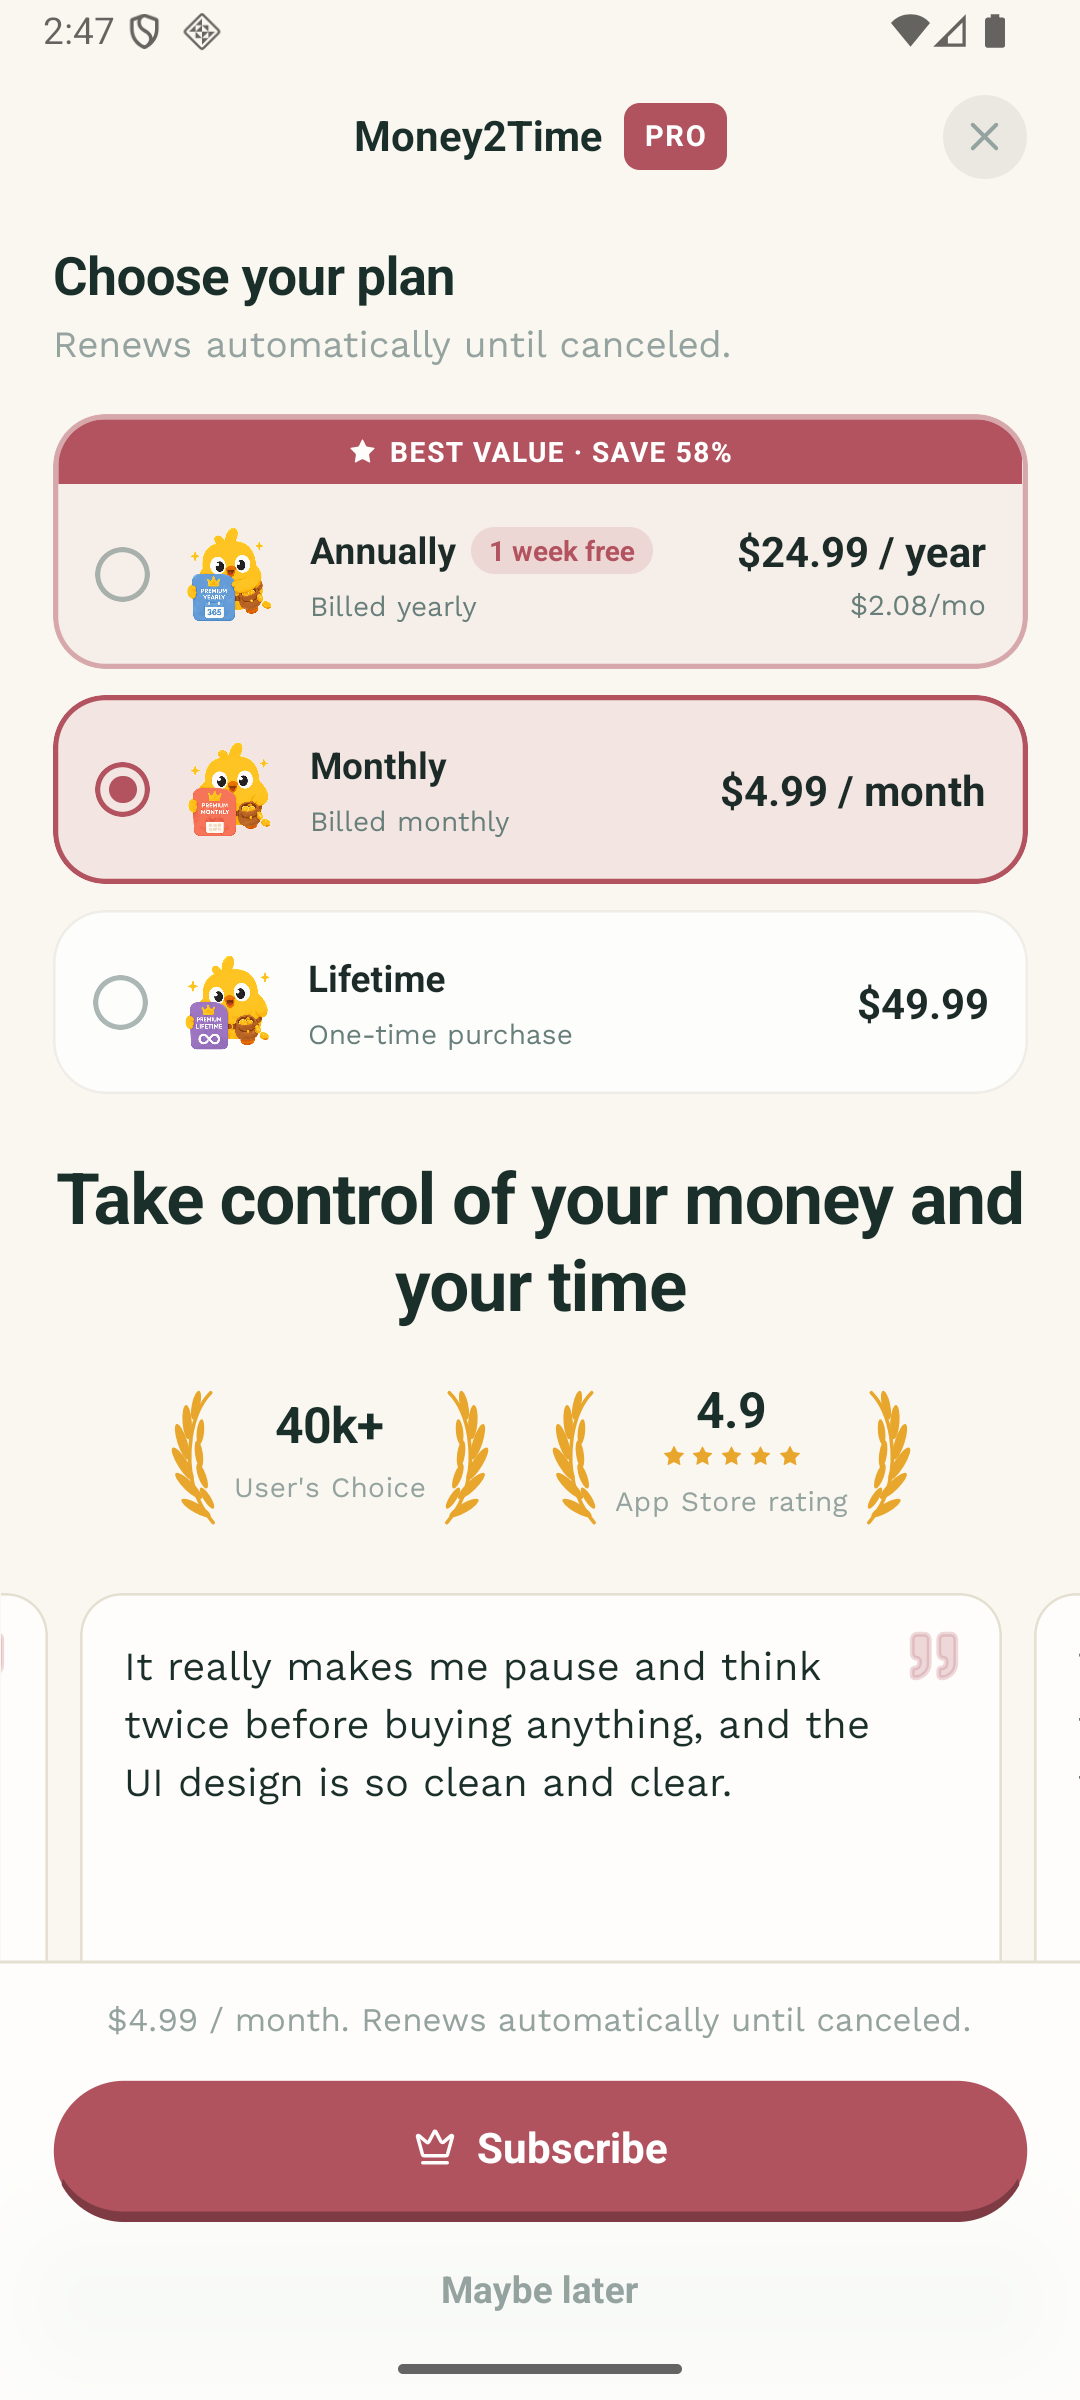
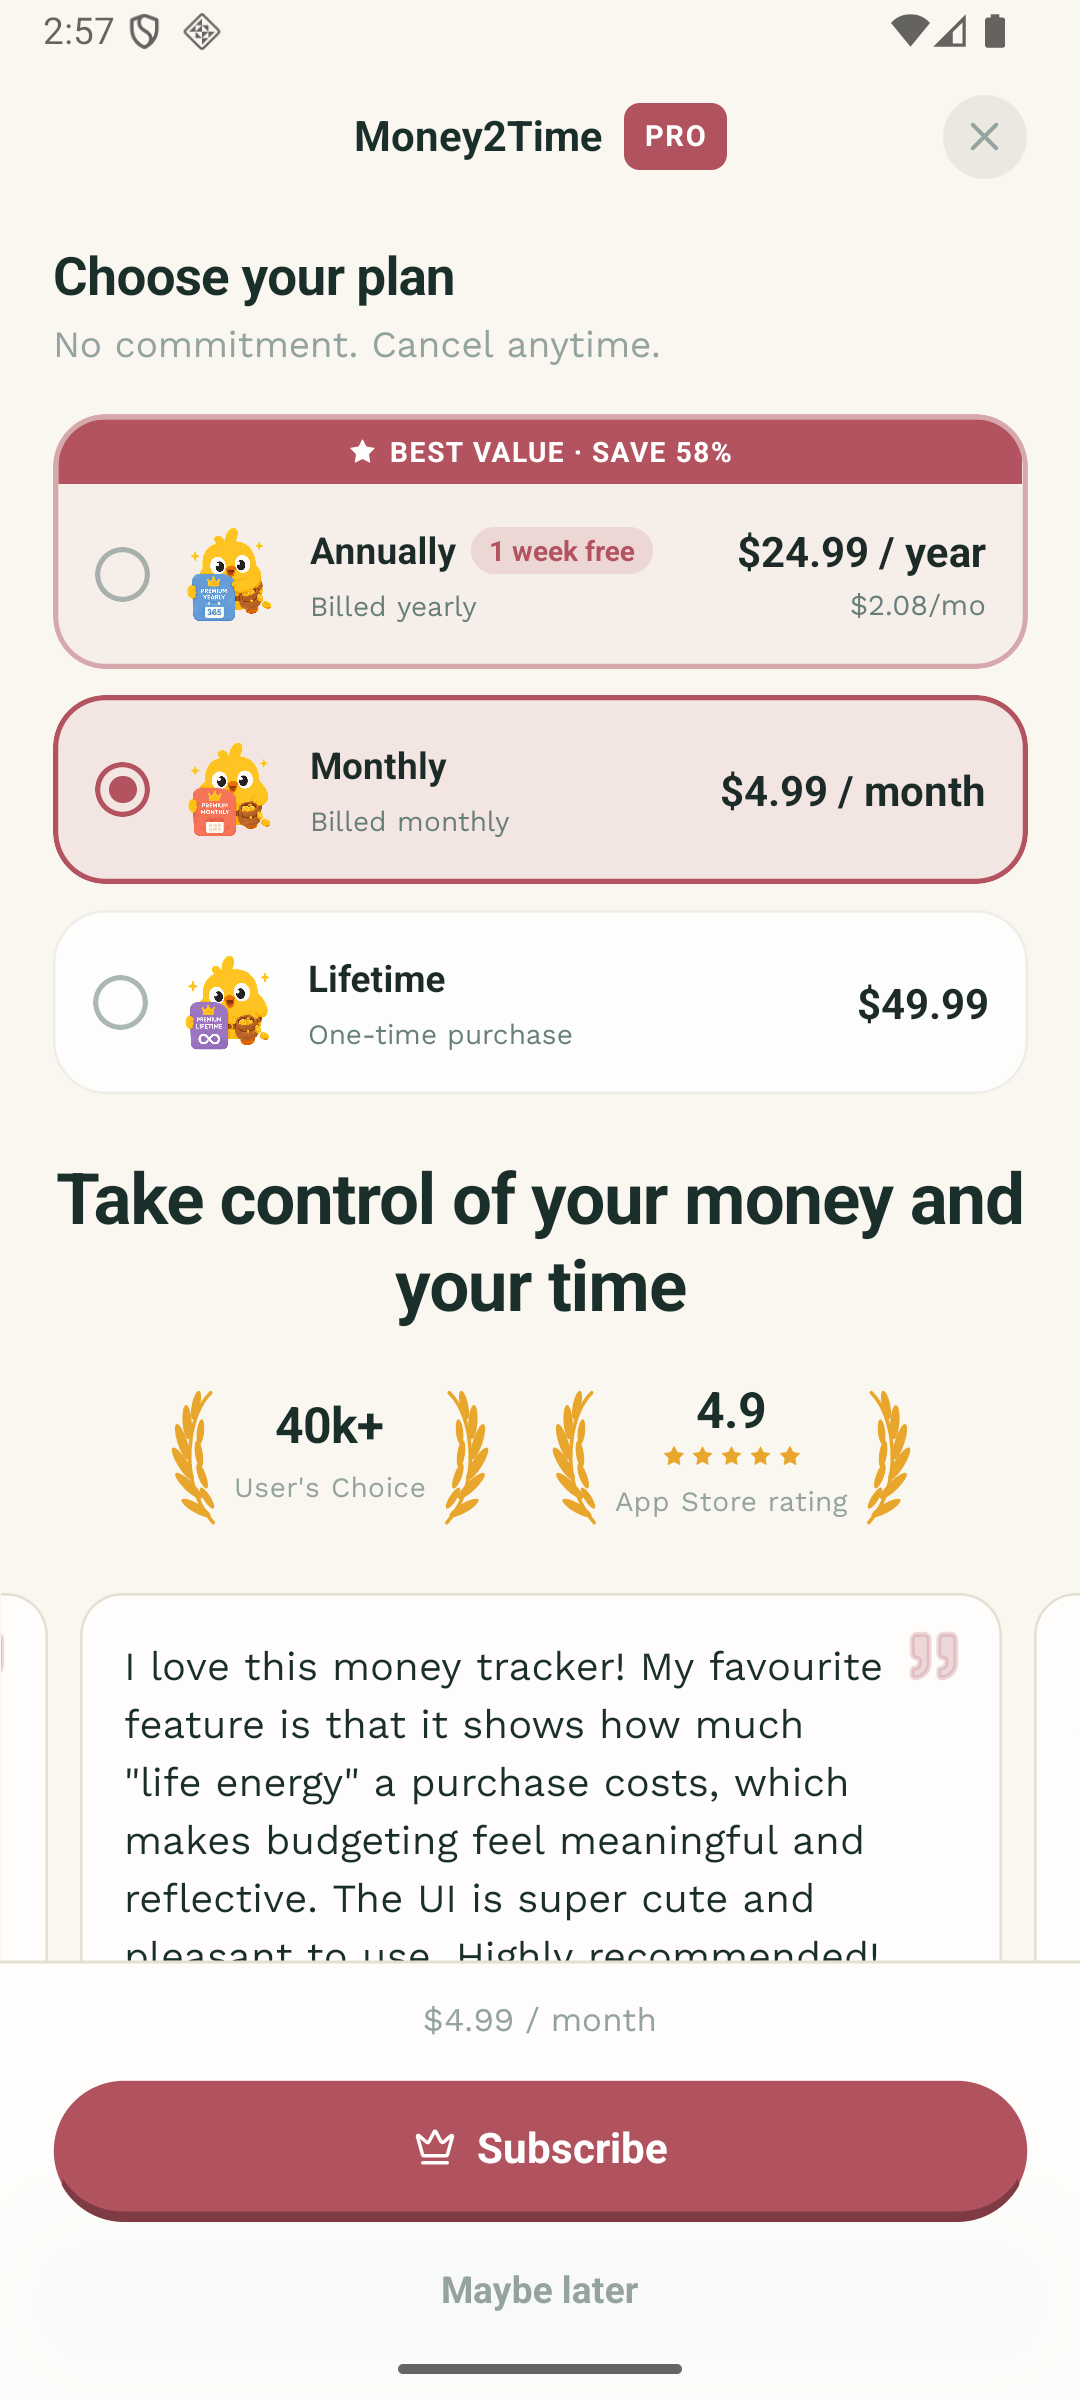
Use single cancellation reassurance on Pro paywall

diff --git a/features/settings/lib/paywallPresentation.ts b/features/settings/lib/paywallPresentation.ts
@@ -50,15 +50,18 @@ export function buildPaywallPlanPresentation(
   translate: Translate,
   locale = 'en',
 ): PaywallPlanPresentation {
-  if (!plan.freeTrial || !plan.priceLabel?.trim()) {
+  if (plan.kind === 'lifetime' || !plan.freeTrial || !plan.priceLabel?.trim()) {
     return {
       trialDurationLabel: null,
       trialBadgeLabel: null,
       heroTitle: translate('pro.hero_title'),
       ctaLabel: translate(plan.kind === 'lifetime' ? 'pro.buy_lifetime' : 'pro.subscribe'),
-      detailLabel: plan.priceLabel?.trim()
-        ? `${plan.priceLabel}. ${translate(plan.kind === 'lifetime' ? 'pro.lifetime_desc' : 'pro.no_commitment')}`
-        : translate(plan.kind === 'lifetime' ? 'pro.lifetime_desc' : 'pro.no_commitment'),
+      detailLabel:
+        plan.kind === 'lifetime'
+          ? plan.priceLabel?.trim()
+            ? `${plan.priceLabel}. ${translate('pro.lifetime_desc')}`
+            : translate('pro.lifetime_desc')
+          : (plan.priceLabel?.trim() ?? ''),
     };
   }
 
@@ -68,10 +71,7 @@ export function buildPaywallPlanPresentation(
     trialBadgeLabel: translate('pro.trial_free', { duration }),
     heroTitle: translate('pro.hero_title'),
     ctaLabel: translate('pro.trial_cta'),
-    detailLabel: translate('pro.trial_terms', {
-      duration,
-      price: plan.priceLabel,
-    }),
+    detailLabel: translate('pro.trial_terms', { duration, price: plan.priceLabel }),
   };
 }
 

diff --git a/lib/i18n/locales/hi.ts b/lib/i18n/locales/hi.ts
@@ -2155,12 +2155,11 @@ const hi = {
     subscribe: 'सदस्यता लें',
     buy_lifetime: 'लाइफ़टाइम खरीदें',
     maybe_later: 'शायद बाद में',
-    trial_terms:
-      '{{duration}} के लिए मुफ़्त, फिर {{price}}। रद्द करने तक अपने-आप नवीनीकृत होता है।',
+    trial_terms: '{{duration}} के लिए मुफ़्त, फिर {{price}}।',
     plans_heading: 'अपना प्लान चुनें',
     save_percent: '{{percent}}% बचाएं',
     per_month_short: '/माह',
-    no_commitment: 'रद्द करने तक अपने-आप नवीनीकृत होता है।',
+    no_commitment: 'कोई प्रतिबद्धता नहीं। कभी भी रद्द करें।',
     compare_limited: 'सीमित',
     terms_prefix: 'खरीदारी करके, आप हमारी',
     manage: 'प्रबंधित करें',

diff --git a/__tests__/features/settings/paywallPresentation.test.ts b/__tests__/features/settings/paywallPresentation.test.ts
@@ -108,13 +108,29 @@ describe('paywall presentation', () => {
       trialBadgeLabel: null,
       heroTitle: 'pro.hero_title',
       ctaLabel: 'pro.subscribe',
-      detailLabel: 'pro.no_commitment',
+      detailLabel: '',
+    });
+  });
+
+  it('never treats a lifetime package as a subscription trial', () => {
+    expect(
+      buildPaywallPlanPresentation(
+        plan({
+          kind: 'lifetime',
+          freeTrial: { durationIso8601: 'P1W', durationCount: 1, durationUnit: 'week' },
+        }),
+        translate,
+      ),
+    ).toMatchObject({
+      trialBadgeLabel: null,
+      ctaLabel: 'pro.buy_lifetime',
+      detailLabel: '$4.99. pro.lifetime_desc',
     });
   });
 
   it.each([
-    ['monthly', 'pro.subscribe', '$4.99. pro.no_commitment'],
-    ['annual', 'pro.subscribe', '$4.99. pro.no_commitment'],
+    ['monthly', 'pro.subscribe', '$4.99'],
+    ['annual', 'pro.subscribe', '$4.99'],
     ['lifetime', 'pro.buy_lifetime', '$4.99. pro.lifetime_desc'],
   ] as const)(
     'uses ordinary %s purchase copy when no trial is available',

diff --git a/lib/i18n/locales/ru.ts b/lib/i18n/locales/ru.ts
@@ -2171,12 +2171,11 @@ const ru = {
     subscribe: 'Оформить подписку',
     buy_lifetime: 'Купить пожизненный доступ',
     maybe_later: 'Может быть позже',
-    trial_terms:
-      'Бесплатный пробный период: {{duration}}, затем {{price}}. Продлевается автоматически до отмены.',
+    trial_terms: 'Бесплатный пробный период: {{duration}}, затем {{price}}.',
     plans_heading: 'Выберите свой план',
     save_percent: 'Сэкономьте {{percent}}%',
     per_month_short: '/мес.',
-    no_commitment: 'Продлевается автоматически до отмены.',
+    no_commitment: 'Без обязательств. Отмена в любое время.',
     compare_limited: 'Ограниченно',
     terms_prefix: 'Совершая покупку, вы соглашаетесь с нашей',
     manage: 'Управление',

diff --git a/lib/i18n/locales/th.ts b/lib/i18n/locales/th.ts
@@ -2128,11 +2128,11 @@ const th = {
     subscribe: 'สมัครสมาชิก',
     buy_lifetime: 'ซื้อแบบตลอดชีพ',
     maybe_later: 'ไว้ทีหลัง',
-    trial_terms: 'ฟรี {{duration}} จากนั้น {{price}} ต่ออายุอัตโนมัติจนกว่าจะยกเลิก',
+    trial_terms: 'ฟรี {{duration}} จากนั้น {{price}}',
     plans_heading: 'เลือกแพ็กเกจของคุณ',
     save_percent: 'ประหยัด {{percent}}%',
     per_month_short: '/เดือน',
-    no_commitment: 'ต่ออายุอัตโนมัติจนกว่าจะยกเลิก',
+    no_commitment: 'ไม่มีข้อผูกมัด ยกเลิกได้ทุกเมื่อ',
     compare_limited: 'จำกัด',
     terms_prefix: 'การซื้อถือว่าคุณยอมรับ',
     manage: 'จัดการ',

diff --git a/lib/i18n/locales/uk.ts b/lib/i18n/locales/uk.ts
@@ -2165,12 +2165,11 @@ const uk = {
     subscribe: 'Оформити підписку',
     buy_lifetime: 'Купити довічний доступ',
     maybe_later: 'Можливо, пізніше',
-    trial_terms:
-      'Безкоштовний пробний період: {{duration}}, потім {{price}}. Автоматично поновлюється до скасування.',
+    trial_terms: 'Безкоштовний пробний період: {{duration}}, потім {{price}}.',
     plans_heading: 'Оберіть свій план',
     save_percent: 'Заощадьте {{percent}}%',
     per_month_short: '/міс.',
-    no_commitment: 'Автоматично поновлюється до скасування.',
+    no_commitment: 'Без зобов’язань. Скасуйте будь-коли.',
     compare_limited: 'Обмежено',
     terms_prefix: 'Купуючи, ви погоджуєтеся з нашою',
     manage: 'Управляти',

diff --git a/lib/i18n/locales/vi.ts b/lib/i18n/locales/vi.ts
@@ -2149,12 +2149,11 @@ const vi = {
     subscribe: 'Đăng ký',
     buy_lifetime: 'Mua gói trọn đời',
     maybe_later: 'Có thể để sau',
-    trial_terms:
-      'Miễn phí trong {{duration}}, sau đó {{price}}. Tự động gia hạn cho đến khi bạn hủy.',
+    trial_terms: 'Miễn phí trong {{duration}}, sau đó {{price}}.',
     plans_heading: 'Chọn gói của bạn',
     save_percent: 'Tiết kiệm {{percent}}%',
     per_month_short: '/tháng',
-    no_commitment: 'Tự động gia hạn cho đến khi bạn hủy.',
+    no_commitment: 'Không ràng buộc. Hủy bất cứ lúc nào.',
     compare_limited: 'Giới hạn',
     terms_prefix: 'Bằng việc mua, bạn đồng ý với',
     manage: 'Quản lý',

diff --git a/lib/i18n/locales/fil.ts b/lib/i18n/locales/fil.ts
@@ -2194,12 +2194,11 @@ const fil = {
     subscribe: 'Mag-subscribe',
     buy_lifetime: 'Bilhin ang Lifetime',
     maybe_later: 'Siguro mamaya',
-    trial_terms:
-      'Libre sa loob ng {{duration}}, pagkatapos ay {{price}}. Awtomatikong nagre-renew hanggang kanselahin.',
+    trial_terms: 'Libre sa loob ng {{duration}}, pagkatapos ay {{price}}.',
     plans_heading: 'Piliin ang iyong plano',
     save_percent: 'Makatipid ng {{percent}}%',
     per_month_short: '/buwan',
-    no_commitment: 'Awtomatikong nagre-renew hanggang kanselahin.',
+    no_commitment: 'Walang commitment. Kanselahin anumang oras.',
     compare_limited: 'May limitasyon',
     terms_prefix: 'Sa pagbili, sumasang-ayon ka sa aming',
     manage: 'Pamahalaan',

diff --git a/lib/i18n/locales/fr.ts b/lib/i18n/locales/fr.ts
@@ -2190,12 +2190,11 @@ const fr = {
     subscribe: 'S’abonner',
     buy_lifetime: 'Acheter l’accès à vie',
     maybe_later: 'Peut-être plus tard',
-    trial_terms:
-      'Gratuit pendant {{duration}}, puis {{price}}. Renouvellement automatique jusqu’à résiliation.',
+    trial_terms: 'Gratuit pendant {{duration}}, puis {{price}}.',
     plans_heading: 'Choisissez votre formule',
     save_percent: 'Économisez {{percent}}%',
     per_month_short: '/mois',
-    no_commitment: 'Renouvellement automatique jusqu’à résiliation.',
+    no_commitment: 'Sans engagement. Annulez à tout moment.',
     compare_limited: 'Limité',
     terms_prefix: 'En achetant, vous acceptez notre',
     manage: 'Gérer',

diff --git a/lib/i18n/locales/pl.ts b/lib/i18n/locales/pl.ts
@@ -2173,12 +2173,11 @@ const pl = {
     subscribe: 'Subskrybuj',
     buy_lifetime: 'Kup dostęp dożywotni',
     maybe_later: 'Może później',
-    trial_terms:
-      'Bezpłatnie przez {{duration}}, potem {{price}}. Odnawia się automatycznie do momentu anulowania.',
+    trial_terms: 'Bezpłatnie przez {{duration}}, potem {{price}}.',
     plans_heading: 'Wybierz swój plan',
     save_percent: 'Oszczędź {{percent}}%',
     per_month_short: '/mies.',
-    no_commitment: 'Odnawia się automatycznie do momentu anulowania.',
+    no_commitment: 'Bez zobowiązań. Anuluj w każdej chwili.',
     compare_limited: 'Ograniczone',
     terms_prefix: 'Kupując, akceptujesz naszą',
     manage: 'Zarządzaj',

diff --git a/lib/i18n/locales/es.ts b/lib/i18n/locales/es.ts
@@ -2176,12 +2176,11 @@ const es = {
     subscribe: 'Suscribirse',
     buy_lifetime: 'Comprar acceso de por vida',
     maybe_later: 'Quizás más tarde',
-    trial_terms:
-      'Gratis durante {{duration}}; después, {{price}}. Se renueva automáticamente hasta que canceles.',
+    trial_terms: 'Gratis durante {{duration}}; después, {{price}}.',
     plans_heading: 'Elige tu plan',
     save_percent: 'Ahorra {{percent}}%',
     per_month_short: '/mes',
-    no_commitment: 'Se renueva automáticamente hasta que canceles.',
+    no_commitment: 'Sin compromiso. Cancela cuando quieras.',
     compare_limited: 'Limitado',
     terms_prefix: 'Al comprar, aceptas nuestra',
     manage: 'Administrar',

diff --git a/lib/i18n/locales/pt.ts b/lib/i18n/locales/pt.ts
@@ -2173,12 +2173,11 @@ const pt = {
     subscribe: 'Assinar',
     buy_lifetime: 'Comprar acesso vitalício',
     maybe_later: 'Talvez mais tarde',
-    trial_terms:
-      'Grátis por {{duration}}, depois {{price}}. Renova automaticamente até você cancelar.',
+    trial_terms: 'Grátis por {{duration}}, depois {{price}}.',
     plans_heading: 'Escolha seu plano',
     save_percent: 'Economize {{percent}}%',
     per_month_short: '/mês',
-    no_commitment: 'Renova automaticamente até você cancelar.',
+    no_commitment: 'Sem compromisso. Cancele quando quiser.',
     compare_limited: 'Limitado',
     terms_prefix: 'Ao comprar, você concorda com nossa',
     manage: 'Gerenciar',
